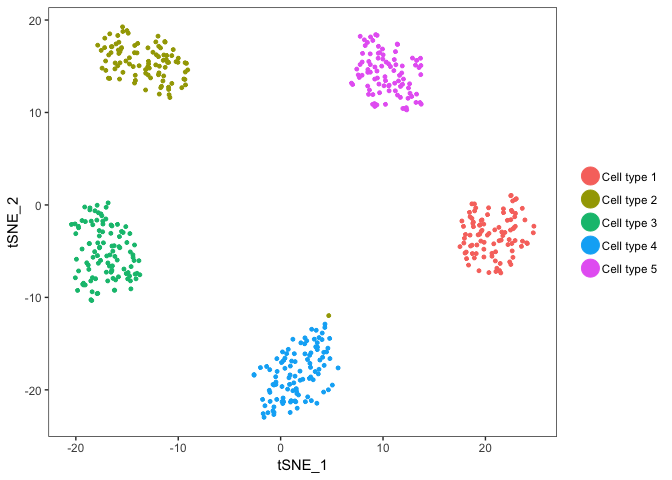
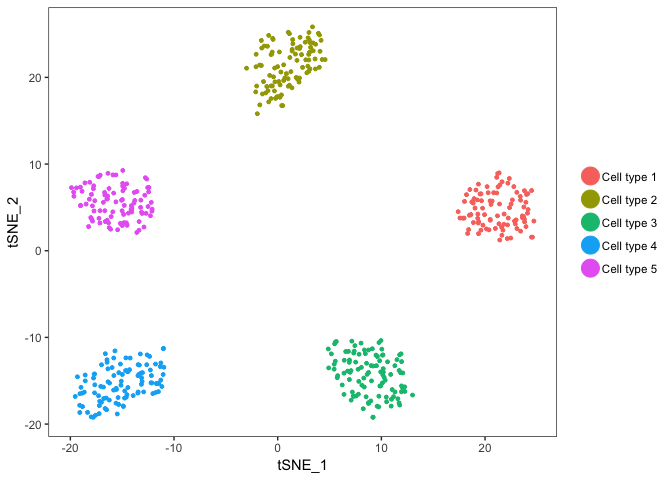
update readme after correcting pca and variable gene selection

diff --git a/README.md b/README.md
@@ -45,14 +45,16 @@ Example
 To illustrate, we'll need the Splatter package to simulate some scRNAseq data.
 
 ``` r
-devtools::install_github("oshlack/splatter")
+if (!requireNamespace("BiocManager", quietly = TRUE))
+    install.packages("BiocManager")
+BiocManager::install("splatter", version = "3.7")
 library(splatter)
 ```
 
-We'll consider a hypothetical example of 500 cells containing five distinct cell types of near equal size and introduce some dropout events.
+We'll consider a hypothetical example of 500 cells and 10,000 genes containing five distinct cell types of near equal size, then introduce some dropout events.
 
 ``` r
-params <- newSplatParams(
+params <- splatter::newSplatParams(
   nGenes = 1e4,
   batchCells = 500,
   group.prob = rep(.2, 5),
@@ -60,12 +62,12 @@ params <- newSplatParams(
   dropout.mid = rep(0, 5),
   dropout.shape = rep(-.5, 5),
   dropout.type = 'group',
-  seed = 0
+  seed = 940
   )
 
-splat <- splatSimulate(params = params, method = 'groups')
+splat <- splatter::splatSimulate(params = params, method = 'groups')
 
-cell_types <- colData(splat)$Group
+cell_types <- SummarizedExperiment::colData(splat)$Group
 cell_types <- gsub('Group', 'Cell type ', cell_types)
 ```
 
@@ -75,57 +77,38 @@ To visualize this data we'll use the Seurat pipeline, which imports with the res
 library(Seurat)
 ```
 
-First, we should ensure the comparison only involves genes with counts.
+First, we should remove genes that lost all counts to dropout.
 
 ``` r
-counts_true <- assays(splat)$TrueCounts
-counts_dropout <- assays(splat)$counts
+counts_true <- SummarizedExperiment::assays(splat)$TrueCounts
+counts_dropout <- SummarizedExperiment::assays(splat)$counts
 comparable_genes <- rowSums(counts_dropout) != 0
 ```
 
 Next, we normalize and scale the data.
 
 ``` r
-expression_true <- CreateSeuratObject(
-  raw.data = counts_true[comparable_genes, ], 
-  normalization.method = 'LogNormalize',
-  do.scale = TRUE,
-  do.center = TRUE
-  )
-
-expression_dropout <- CreateSeuratObject(
-  raw.data = counts_dropout[comparable_genes, ], 
-  normalization.method = 'LogNormalize',
-  do.scale = TRUE,
-  do.center = TRUE
-  )
+expression_true <- Seurat::CreateSeuratObject(raw.data = counts_true, normalization.method = 'LogNormalize', do.scale = TRUE, do.center = TRUE)
+expression_dropout <- Seurat::CreateSeuratObject(raw.data = counts_dropout[comparable_genes, ], normalization.method = 'LogNormalize', do.scale = TRUE, do.center = TRUE)
 ```
 
 The last step is dimension reduction with PCA and then visualization with t-SNE.
 
 ``` r
-expression_true <- RunPCA(
-  expression_true, 
-  pc.genes = rownames(expression_dropout@data), 
-  pcs.print = 0
-  )
-expression_true <- SetIdent(expression_true, ident.use = cell_types)
-expression_true <- RunTSNE(expression_true)
-TSNEPlot(expression_true)
+expression_true <- Seurat::RunPCA(expression_true, pc.genes = rownames(expression_true@data), pcs.print = 0)
+expression_true <- Seurat::SetIdent(expression_true, ident.use = cell_types)
+expression_true <- Seurat::RunTSNE(expression_true)
+Seurat::TSNEPlot(expression_true)
 ```
 
 ![](README-unnamed-chunk-9-1.png)
 
 ``` r
 
-expression_dropout <- RunPCA(
-  expression_dropout, 
-  pc.genes = rownames(expression_dropout@data), 
-  pcs.print = 0
-  )
-expression_dropout <- SetIdent(expression_dropout, ident.use = cell_types)
-expression_dropout <- RunTSNE(expression_dropout)
-TSNEPlot(expression_dropout)
+expression_dropout <- Seurat::RunPCA(expression_dropout, pc.genes = rownames(expression_dropout@data), pcs.print = 0)
+expression_dropout <- Seurat::SetIdent(expression_dropout, ident.use = cell_types)
+expression_dropout <- Seurat::RunTSNE(expression_dropout)
+Seurat::TSNEPlot(expression_dropout)
 ```
 
 ![](README-unnamed-chunk-9-2.png)
@@ -133,21 +116,17 @@ TSNEPlot(expression_dropout)
 It's clear that dropout has distorted our evaluation of the data by cell type as compared to what we should see with the full set of counts. Now let's impute zero counts to recover missing expression values and reevaluate.
 
 ``` r
-impute <- bootstrapImputation(expression_matrix = expression_dropout@data)
+impute <- rescue::bootstrapImputation(expression_matrix = expression_dropout@data, bootstrap_samples = 100, use_mclapply = TRUE, cores = 3)
 
-expression_imputed <- CreateSeuratObject(impute$final_imputation)
-expression_imputed <- NormalizeData(expression_imputed, normalization.method = 'none')
-expression_imputed <- ScaleData(expression_imputed)
-expression_imputed <- RunPCA(
-  expression_imputed, 
-  pc.genes = rownames(expression_dropout@data), 
-  pcs.print = 0
-  )
-expression_imputed <- RunTSNE(expression_imputed)
-expression_imputed <- SetIdent(expression_imputed, ident.use = cell_types)
-TSNEPlot(expression_imputed)
+expression_imputed <- Seurat::CreateSeuratObject(impute$final_imputation)
+expression_imputed <- Seurat::NormalizeData(expression_imputed, normalization.method = 'none')
+expression_imputed <- Seurat::ScaleData(expression_imputed)
+expression_imputed <- Seurat::RunPCA(expression_imputed, pc.genes = rownames(expression_imputed@data), pcs.print = 0)
+expression_imputed <- Seurat::RunTSNE(expression_imputed)
+expression_imputed <- Seurat::SetIdent(expression_imputed, ident.use = cell_types)
+Seurat::TSNEPlot(expression_imputed)
 ```
 
 ![](README-unnamed-chunk-10-1.png)
 
-The recovery of missing expression values due to dropout events allows us to more correctly distinguish cell types in this simulated example data.
+The recovery of missing expression values due to dropout events allows us to correctly distinguish cell types with basic data visualization techniques in this simulated example data.
